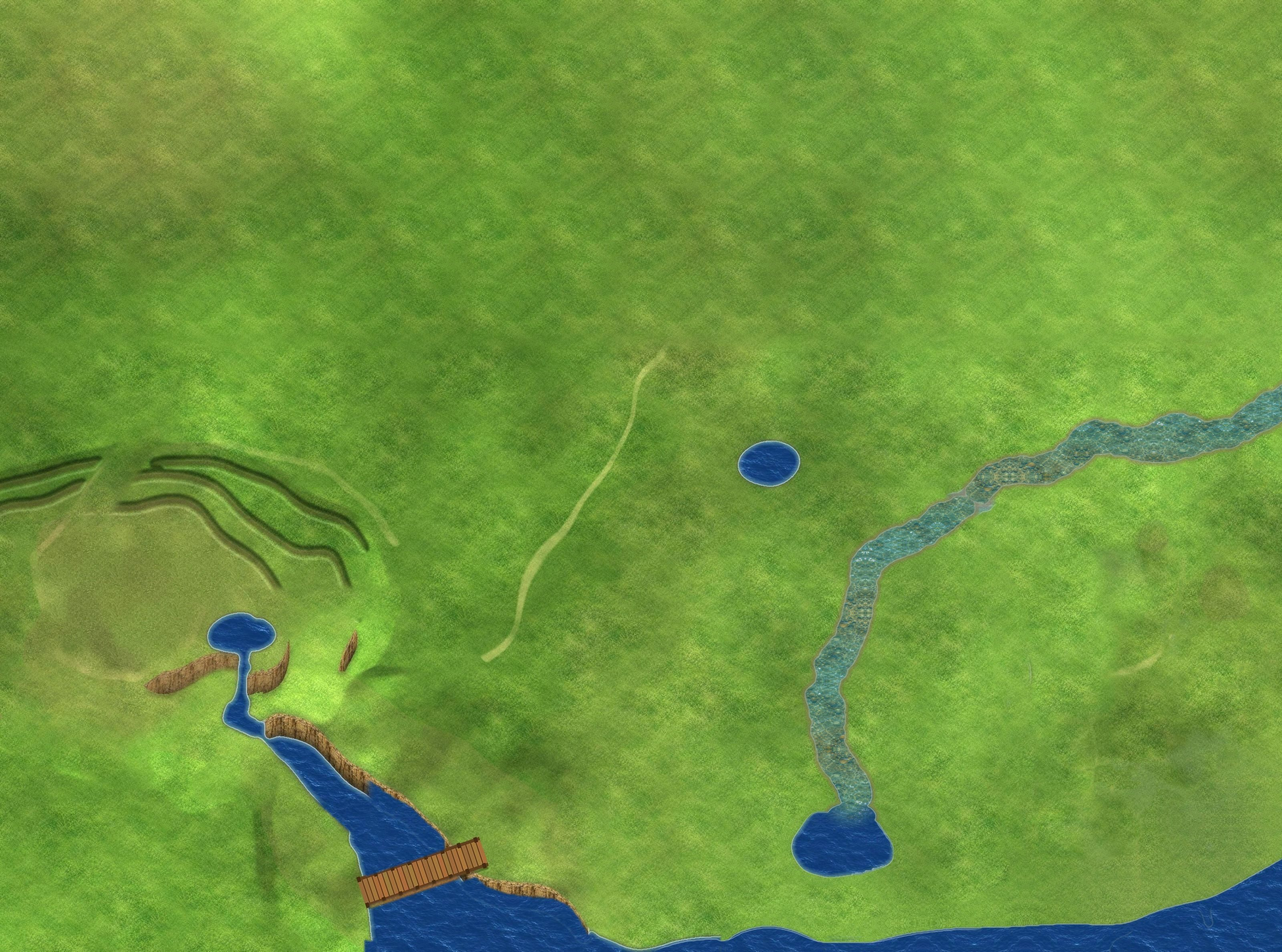
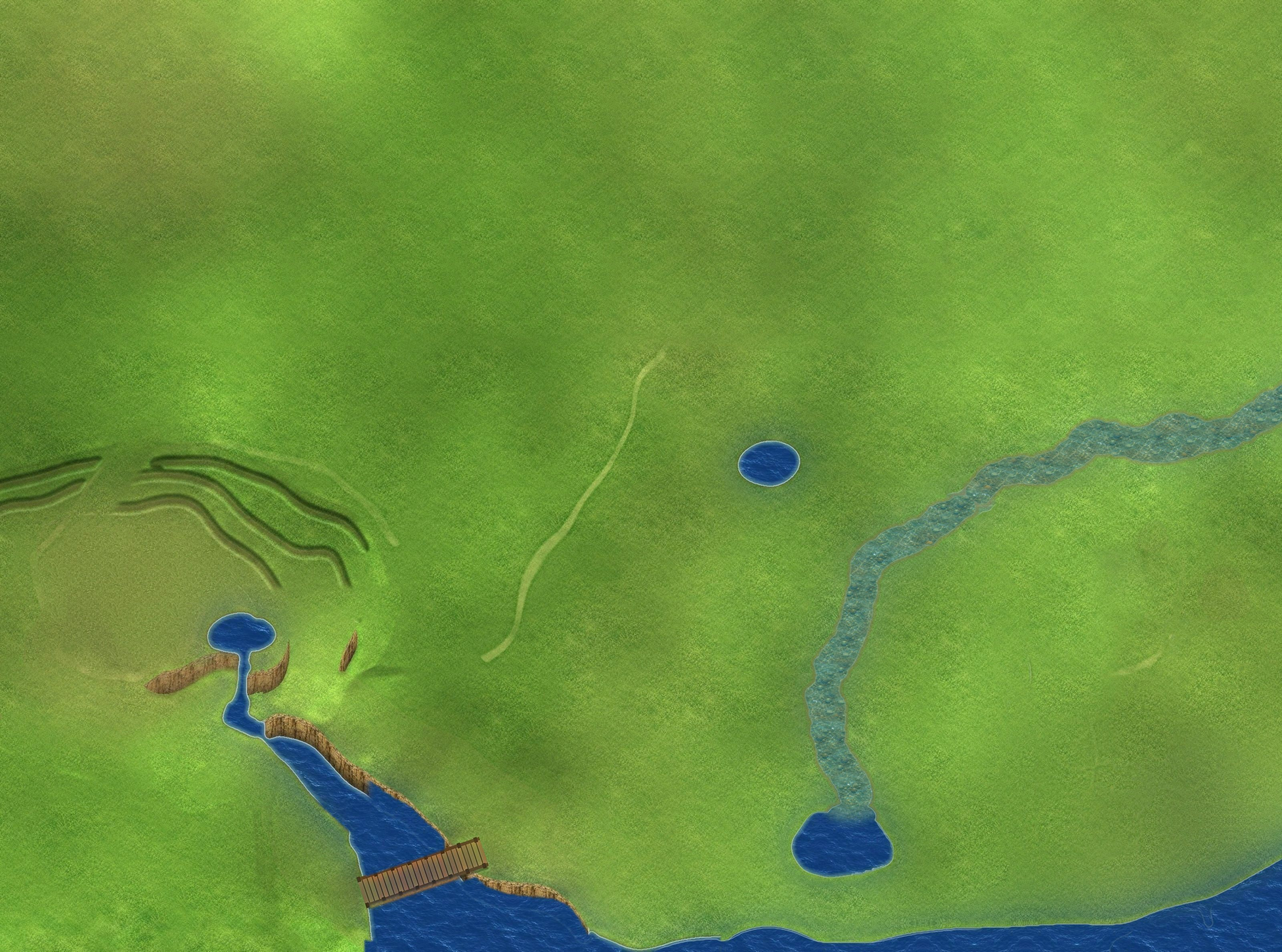
地面纹理整理：草地去掉菱形重复和色斑、浅滩改随机拼块不镜像、东岸改成自然曲线 Co-Authored-By: Claude Opus 5.5 <noreply@anthropic.com> Claude-Session: https://claude.ai/code/session_011WrGna6yNwTfpmyp4CxMHs

diff --git a/src/main.js b/src/main.js
@@ -1,16 +1,16 @@
 
-import {createMenu} from './menu.js?v=11030840';
-import {createSurvival} from './survival.js?v=11030840';
-import {createEnemies} from './enemies.js?v=11030840';
-import {createAudio} from './audio.js?v=11030840';
-import {createMeta} from './meta.js?v=11030840';
+import {createMenu} from './menu.js?v=11030850';
+import {createSurvival} from './survival.js?v=11030850';
+import {createEnemies} from './enemies.js?v=11030850';
+import {createAudio} from './audio.js?v=11030850';
+import {createMeta} from './meta.js?v=11030850';
 window.META=createMeta();
 const SFX=window.SFX=createAudio();
-import {createPathing} from './pathing.js?v=11030840';
+import {createPathing} from './pathing.js?v=11030850';
 let PATH=null;window.PATHDIR=(x,y)=>PATH?.dir(x,y);window.PATHDBG=()=>PATH?.dbg();window.PATHAT=(x,y)=>PATH?PATH.at(x,y):-1;
-import {createWeather} from './weather.js?v=11030840';
-import {createRun} from './run.js?v=11030840';
-import {createDebug} from './debug.js?v=11030840';
+import {createWeather} from './weather.js?v=11030850';
+import {createRun} from './run.js?v=11030850';
+import {createDebug} from './debug.js?v=11030850';
 const [W,CH,ED]=await Promise.all(['data/world.json','data/characters.json','data/enemies.json'].map(u=>fetch(u).then(r=>r.json())));
 const HN=await fetch('data/heroine.json').then(r=>r.json());
 const HM=await fetch('data/hero_m.json').then(r=>r.json());

diff --git a/src/run.js b/src/run.js
@@ -1,5 +1,5 @@
-import {install as installLM} from './landmarks.js?v=11030840';
-import {DEFS,CARD_DT,CARD_IC,CARD_KIND,install} from './cards2.js?v=11030840';
+import {install as installLM} from './landmarks.js?v=11030850';
+import {DEFS,CARD_DT,CARD_IC,CARD_KIND,install} from './cards2.js?v=11030850';
 // 局内成长（最小可玩版）：经验珠 → 升级三选一（大类卡点开再选）→ 多把武器自动攻击；被动；刷怪节奏；精英与 Boss。
 // 设计见 docs/GAME_DESIGN.md。伤害单位 = 敌人血量单位（棍兵基础 2 点）。
 const R=(a,b)=>a+Math.random()*(b-a);

diff --git a/index.html b/index.html
@@ -88,5 +88,5 @@ function tick(n){if(!document.getElementById('boot'))return;var t=(n-t0)/1000,dt
 <div class="sw" role="group" aria-label="角色" id="cs"><button data-c="m" aria-pressed="true">短发</button><button data-c="f0" aria-pressed="false">女主·长直发</button></div>
 </div>
 
-<script type="module" src="src/main.js?v=11030840"></script>
+<script type="module" src="src/main.js?v=11030850"></script>
 </body></html>

diff --git a/src/menu.js b/src/menu.js
@@ -1,4 +1,4 @@
-import {WEAPONS,PASSIVES,POOL,PASS_KEYS,WIC,PIC,fixDeck,DECKN,KIND} from './run.js?v=11030840';
+import {WEAPONS,PASSIVES,POOL,PASS_KEYS,WIC,PIC,fixDeck,DECKN,KIND} from './run.js?v=11030850';
 // 主界面：独立绘制演示场景；备战（角色/装备/商店）→ 选关卡 → 出发。
 document.documentElement.classList.add('menu-loading');
 const style=document.createElement('style');

diff --git a/src/survival.js b/src/survival.js
@@ -1,4 +1,4 @@
-import {createLeaderboard,submitScore,formatTime,scoreOf} from './leaderboard.js?v=11030840';
+import {createLeaderboard,submitScore,formatTime,scoreOf} from './leaderboard.js?v=11030850';
 
 export function createSurvival(game){
  let maxHp=100,playing=false,finished=false,hp=100,elapsed=0,cooldown=0,name='',generation=0;

diff --git a/tools/polish_ground.py b/tools/polish_ground.py
@@ -1,0 +1,79 @@
+"""一次性：地面纹理整理——草地打散菱形重复、东南/西南色斑抹匀、浅滩改随机拼块（不镜像）、东岸做成自然曲线。"""
+import numpy as np,cv2,json
+from PIL import Image
+R='/home/claude/sanguoxingcunzhe';M=R+'/assets/map/'
+J=json.load(open(R+'/data/world.json'));HD=J['HD'];T=J['tiles']['T'];W,H=J['WW'],J['WH']
+full=np.zeros((H*HD,W*HD,3),np.uint8)
+for t in J['tiles']['list']:
+    im=np.array(Image.open(M+t+'.jpg').convert('RGB'));tx,ty=int(t[1]),int(t[2]);full[ty*T*HD:ty*T*HD+im.shape[0],tx*T*HD:tx*T*HD+im.shape[1]]=im
+c=np.array(Image.open(M+'coll.png').convert('RGB'));b=c[...,0]
+F=full.astype(np.float32);rng=np.random.default_rng(7)
+up=lambda x:cv2.resize(x.astype(np.float32),(W*HD,H*HD),interpolation=cv2.INTER_LINEAR)
+f=cv2.GaussianBlur(F[::HD,::HD],(0,0),1.5);sea=(f[...,2]>f[...,1]+30)&(f[...,0]<110)
+# ---------- 5) 东岸自然曲线 ----------
+yy=np.arange(H);cx=1772+10*np.sin(yy/57.0)+5*np.sin(yy/21.0+1)
+X=np.arange(W)[None,:];band=(yy[:,None]>=560)&(yy[:,None]<=900)
+newsea=band&(X>=cx[:,None])&~sea;newland=band&(X<cx[:,None])&sea&(X>1700)
+newsea&=(b!=2)
+# 河口处保留浅滩
+P=F[900*HD:900*HD+128,1800*HD:1800*HD+128];pm=np.concatenate([P,P[:,::-1]],1);pm=np.concatenate([pm,pm[::-1]],0)
+ocean=np.tile(pm,(H*HD//pm.shape[0]+1,W*HD//pm.shape[1]+1,1))[:H*HD,:W*HD]
+s=8;small=cv2.resize(full,(W*HD//s,H*HD//s),interpolation=cv2.INTER_AREA)
+unk=cv2.resize((newland|sea|(b==1)|(b==2)).astype(np.uint8),(W*HD//s,H*HD//s),interpolation=cv2.INTER_NEAREST);unk=cv2.dilate(unk,np.ones((5,5),np.uint8))
+low=cv2.inpaint(small[...,::-1],unk*255,10,cv2.INPAINT_TELEA)[...,::-1];low=cv2.resize(cv2.GaussianBlur(low.astype(np.float32),(0,0),3),(W*HD,H*HD),interpolation=cv2.INTER_CUBIC)
+Pt=F[150*HD:150*HD+256,900*HD:900*HD+256];det=Pt-cv2.GaussianBlur(Pt,(0,0),12)
+det=np.concatenate([det,det[:,::-1]],1);det=np.concatenate([det,det[::-1]],0)
+gtile=np.tile(det,(H*HD//det.shape[0]+1,W*HD//det.shape[1]+1,1))[:H*HD,:W*HD]
+socean=(sea|newsea)&~newland
+dl=cv2.distanceTransform(socean.astype(np.uint8),cv2.DIST_L2,5);dc=cv2.distanceTransform((~socean).astype(np.uint8),cv2.DIST_L2,5)
+reg=np.zeros((H,W),bool);reg[540:920,1690:]=True
+a=cv2.GaussianBlur(up(reg&(newsea|(socean&(dl<8)))),(0,0),2)[...,None];F=F*(1-a)+ocean*a
+a=cv2.GaussianBlur(up(reg&(newland|(~socean&(dc<8)&(b!=2)))),(0,0),2)[...,None];F=F*(1-a)+(low+gtile)*a
+e=cv2.GaussianBlur(1-up(socean),(0,0),1.5*HD);edge=np.clip(1-np.abs(e-.5)*4,0,1)[...,None]*.5*cv2.GaussianBlur(up(reg),(0,0),8)[...,None]
+F=F*(1-edge)+np.array([225,235,238])*edge
+b[newsea]=1;b[newland]=0
+J['objs']=[o for o in J['objs'] if not (0<=o[2]<H and 0<=o[1]<W and newsea[int(o[2]),int(o[1])])]
+sea=socean
+# ---------- 2,3) 色斑抹匀：在指定区域把中频明暗换成大尺度平均 ----------
+land=(b!=1)&(b!=2)&~sea
+fix=np.zeros((H,W),np.float32);fix[860:1130,1220:1680]=1;fix[960:1080,280:420]=1;fix[600:760,40:220]=.7
+fix*=land;fix=cv2.GaussianBlur(fix,(0,0),20)
+FX=up(fix)[...,None]
+l1=cv2.GaussianBlur(F,(0,0),10);l2=cv2.GaussianBlur(F,(0,0),60)
+F=F+(l2-l1)*FX*.85
+# ---------- 1) 草地大尺度起伏，打散菱形 ----------
+nz=sum(cv2.resize(rng.normal(0,1,(H//k+2,W//k+2)).astype(np.float32),(W,H),interpolation=cv2.INTER_CUBIC)*w for k,w in [(120,1),(55,.6)])
+nz=nz/np.abs(nz).max()
+lm=cv2.GaussianBlur(land.astype(np.float32),(0,0),3)
+F=F*(1+up(nz*.07*lm)[...,None])
+# 再把原底图菱形周期（约 128 世界像素）压一下：减掉该尺度的周期分量
+gl=cv2.GaussianBlur(F,(0,0),14)-cv2.GaussianBlur(F,(0,0),40)
+F=F-gl*up(lm*.55)[...,None]
+# ---------- 4) 浅滩：随机拼块（不镜像） ----------
+src=np.array(Image.open(R+'/art_src/gpt/shallow/tile_a.png').convert('RGB')).astype(np.float32)
+src=cv2.resize(src,(src.shape[1]*2//5*2//2,src.shape[0]*2//5*2//2),interpolation=cv2.INTER_AREA)
+B=72;O=20;sh=np.zeros((H*HD+B,W*HD+B,3),np.float32);wsum=np.zeros(sh.shape[:2],np.float32)
+win=np.outer(np.minimum(1,np.minimum(np.arange(B+O)+1,(B+O)-np.arange(B+O))/O),np.minimum(1,np.minimum(np.arange(B+O)+1,(B+O)-np.arange(B+O))/O)).astype(np.float32)
+Sm=up(b==2)>0.01
+for y in range(0,H*HD,B):
+  for x in range(0,W*HD,B):
+    if not Sm[min(y,H*HD-1):min(y+B,H*HD),min(x,W*HD-1):min(x+B,W*HD)].any() and not Sm[max(0,y-O):y+B+O,max(0,x-O):x+B+O].any():continue
+    sy=rng.integers(0,src.shape[0]-B-O);sx=rng.integers(0,src.shape[1]-B-O)
+    pt=src[sy:sy+B+O,sx:sx+B+O];yy0,xx0=y-O//2,x-O//2
+    ys,xs=max(0,yy0),max(0,xx0);ye,xe=min(sh.shape[0],yy0+B+O),min(sh.shape[1],xx0+B+O)
+    sh[ys:ye,xs:xe]+=pt[ys-yy0:ye-yy0,xs-xx0:xe-xx0]*win[ys-yy0:ye-yy0,xs-xx0:xe-xx0,None];wsum[ys:ye,xs:xe]+=win[ys-yy0:ye-yy0,xs-xx0:xe-xx0]
+sh=(sh/np.maximum(wsum,1e-3)[...,None])[:H*HD,:W*HD]
+S=(b==2).astype(np.float32);aS=cv2.GaussianBlur(up(S),(0,0),1.2*HD)
+deep=sea|((b==1)&cv2.dilate((b==2).astype(np.uint8),np.ones((40,40),np.uint8)).astype(bool))
+dS=cv2.distanceTransform((b!=2).astype(np.uint8),cv2.DIST_L2,5)
+fade=up(np.clip(1-dS/22,0,1)*deep*.85)
+k=np.maximum(aS,fade)[...,None]
+# 只替换浅滩水色本身，保留岸边沙/亮边：用旧浅滩亮度做遮罩混合
+F=F*(1-k*.92)+sh*k*.92
+out=np.clip(F,0,255).astype(np.uint8)
+c[...,0]=b;Image.fromarray(c).save(M+'coll.png')
+for t in J['tiles']['list']:
+    tx,ty=int(t[1]),int(t[2]);Image.fromarray(out[ty*T*HD:(ty+1)*T*HD,tx*T*HD:(tx+1)*T*HD]).save(M+t+'.jpg',quality=84,optimize=True)
+J['ver']+=1;json.dump(J,open(R+'/data/world.json','w'),ensure_ascii=False,separators=(',',':'))
+for i,(x,y) in enumerate([(0,0),(940,0),(0,594),(940,594)]):Image.fromarray(out[y*2:(y+594)*2,x*2:(x+940)*2]).resize((940,594)).save(f'/tmp/claude-0/s/n{i}.png')
+Image.fromarray(out[480*HD:620*HD,1550*HD:1880*HD]).save('/tmp/claude-0/s/nz.png')
